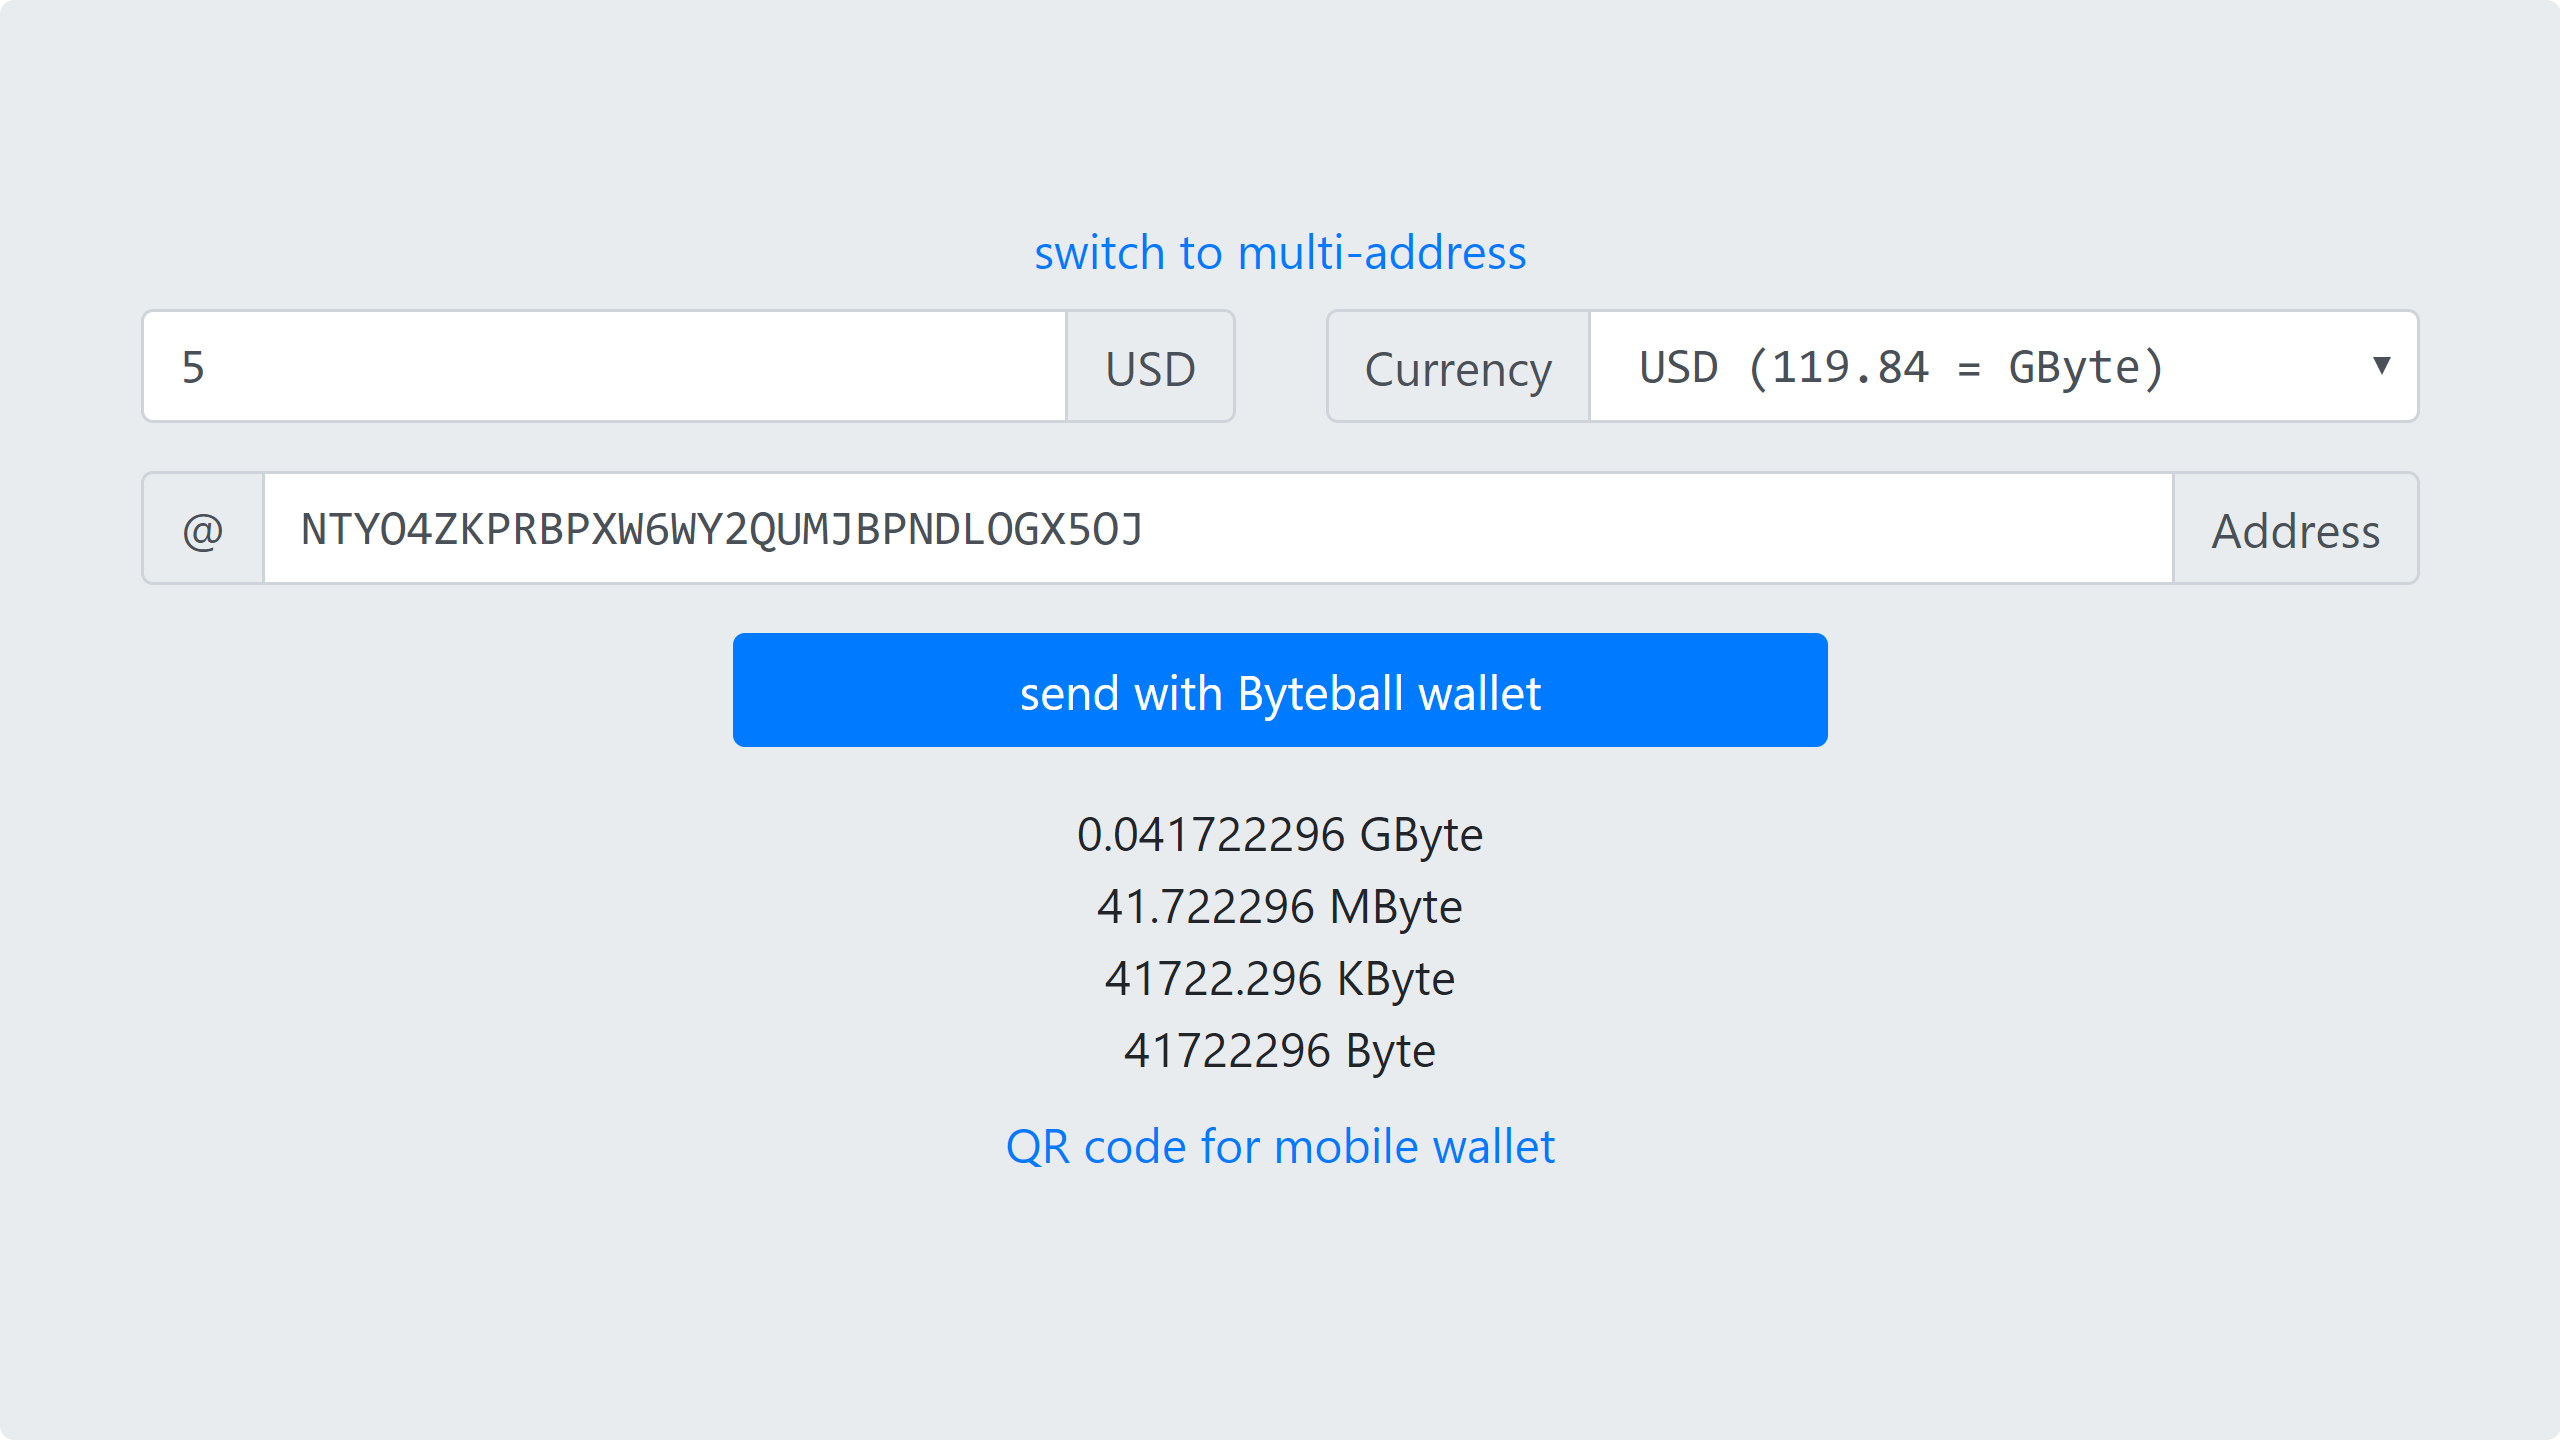
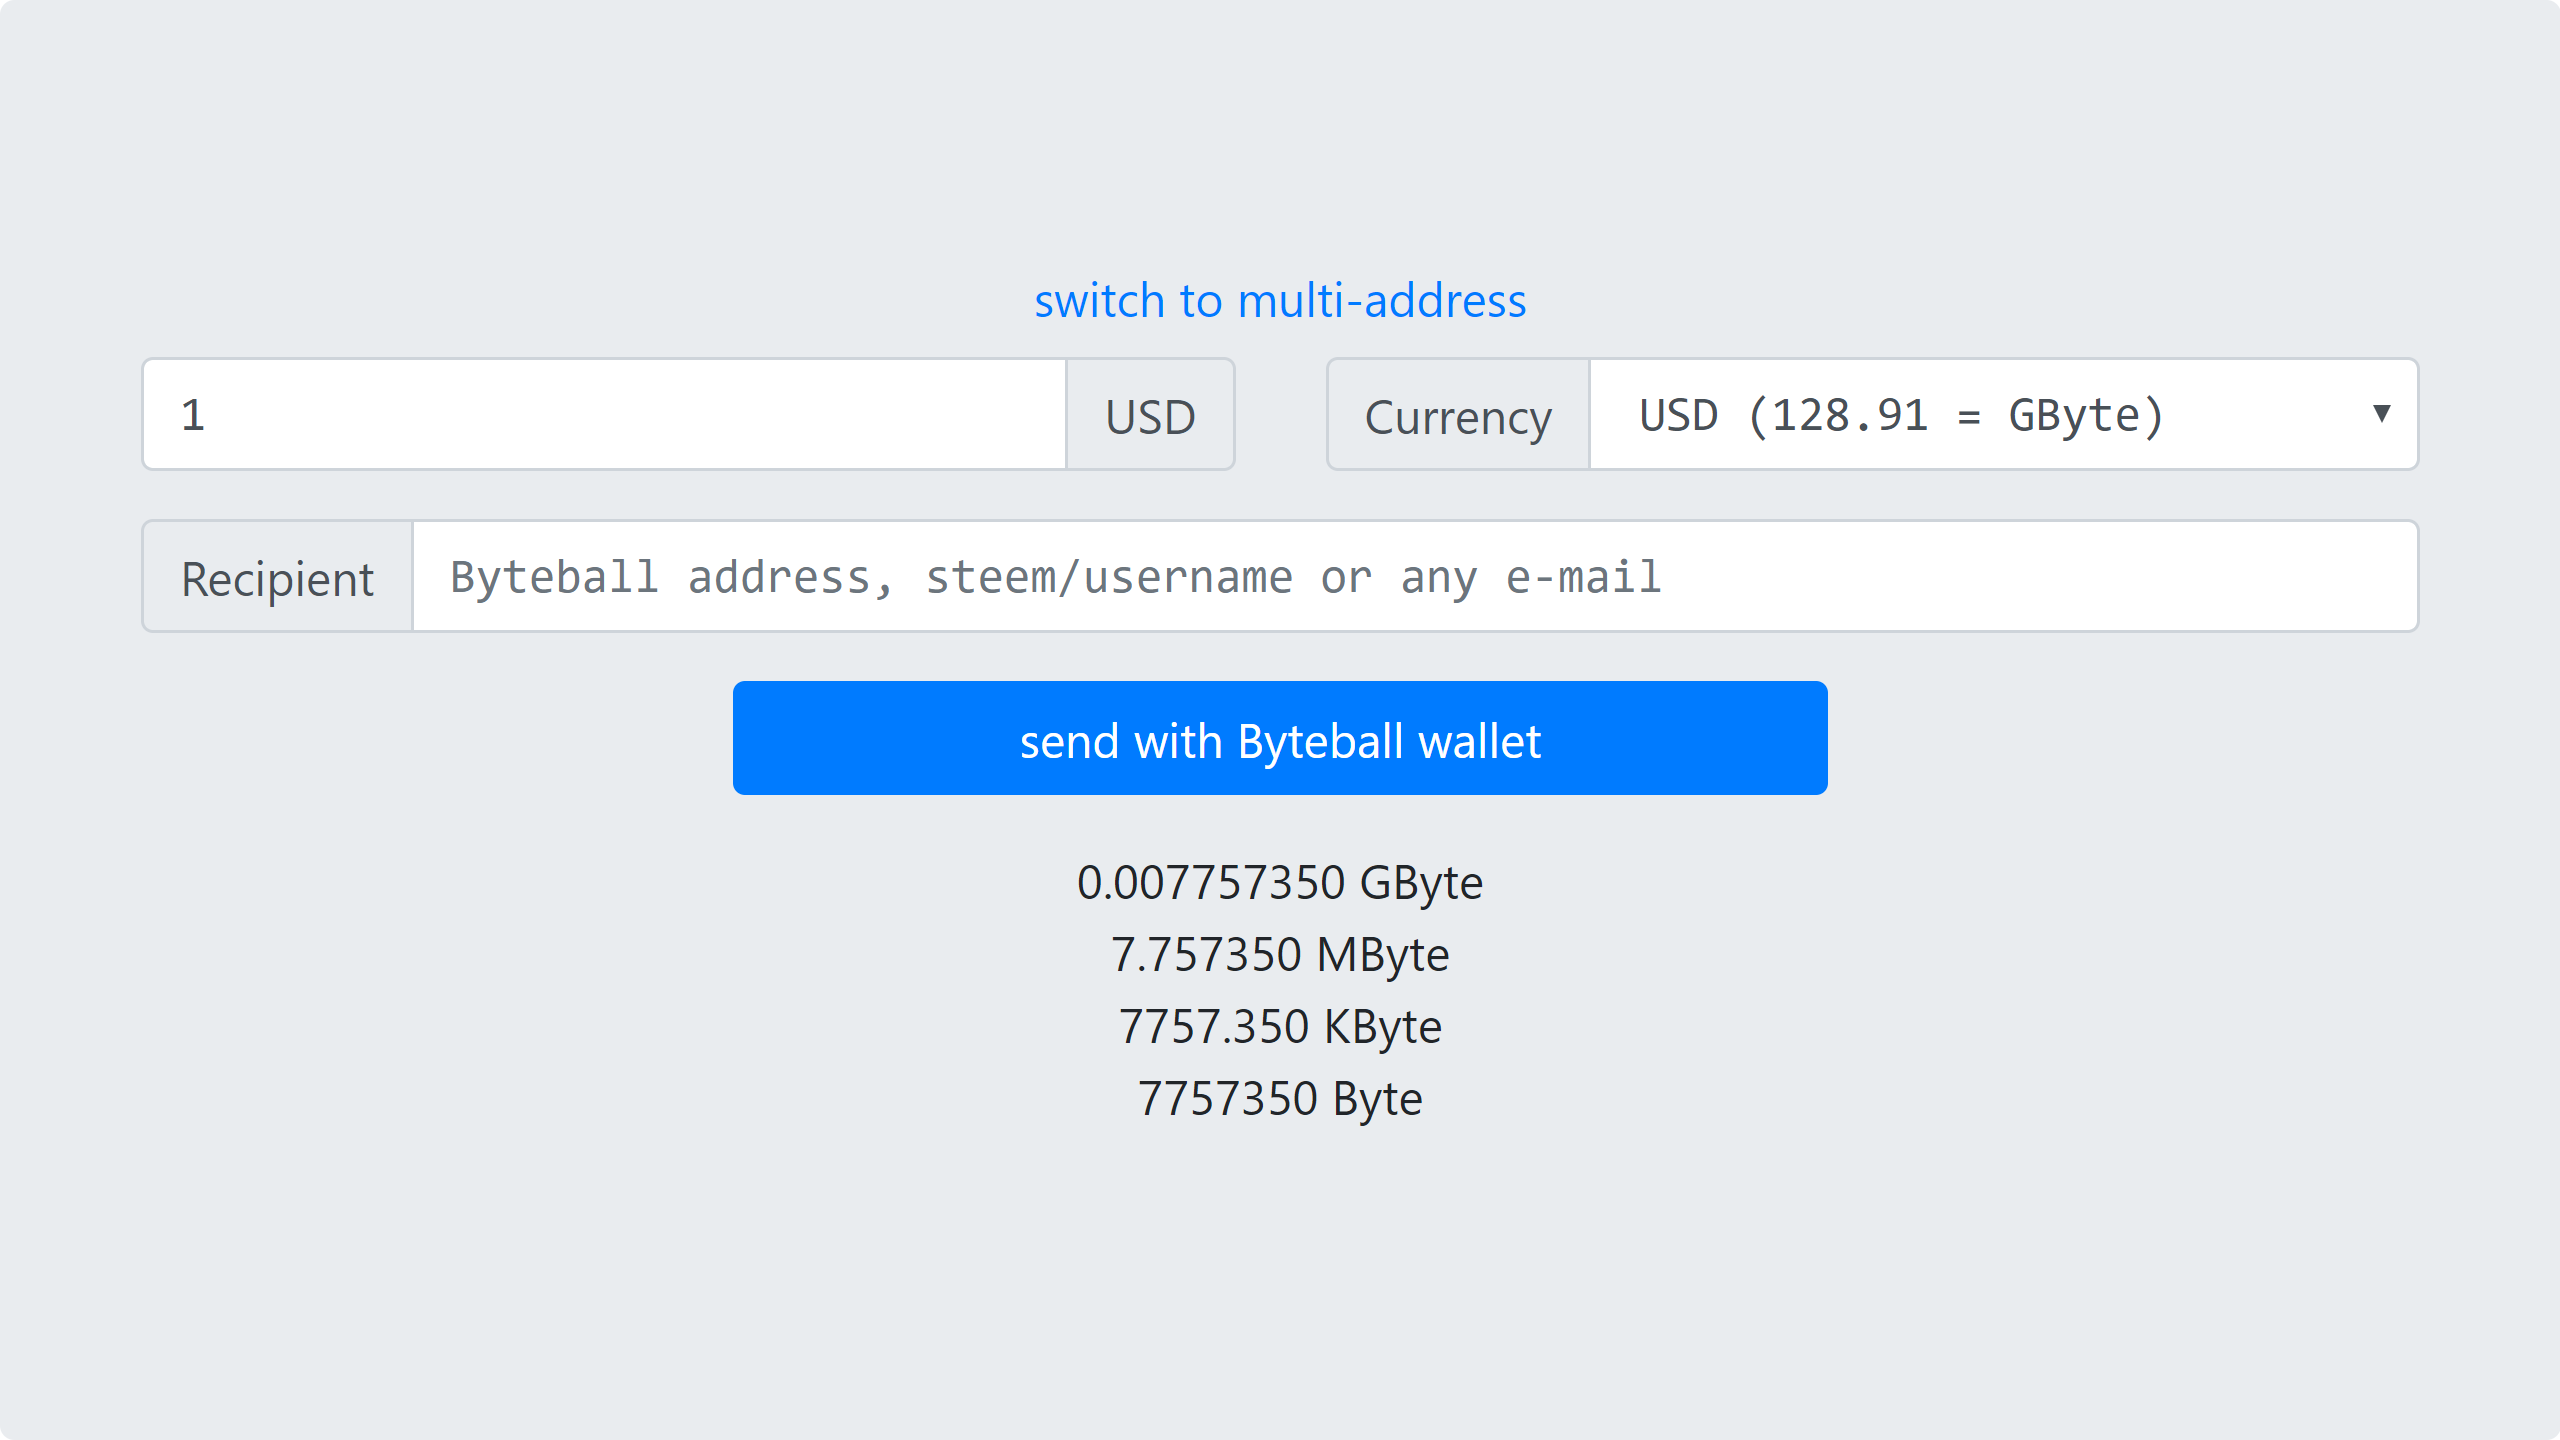
steem/username

Changed region(s): [[0.0625, 0.1562, 0.9375, 0.4375], [0.2812, 0.4375, 0.7188, 0.8125]]

diff --git a/multi.html b/multi.html
@@ -9,7 +9,7 @@
 	<meta property="og:type"        content="website" />
 	<meta property="og:title"       content="Currency converter for Byteball" />
 	<meta property="og:description" content="Tool for converting different currencies to Byteball amounts" />
-	<meta property="og:image"       content="https://tarmo888.github.io/bb-convert/bb-convert.png" />
+	<meta property="og:image"       content="https://tarmo888.github.io/bb-convert/bb-convert-multi.png" />
 	<link rel="stylesheet" href="https://cdnjs.cloudflare.com/ajax/libs/twitter-bootstrap/4.1.1/css/bootstrap.min.css" integrity="sha256-Md8eaeo67OiouuXAi8t/Xpd8t2+IaJezATVTWbZqSOw=" crossorigin="anonymous" />
 	<link rel="stylesheet" href="style.css?v5" />
 	<script>
@@ -34,7 +34,7 @@
 				</div>
 				<div class="row justify-content-center">
 					<div class="input-group input-group-md mb-3 col-lg-3 col-md-6">
-						<input class="form-control" type="number" id="amount_to_send" min="0" placeholder="Amount to send" />
+						<input class="form-control" type="number" id="amount_to_send" min="0" placeholder="Total amount to send" />
 						<div class="input-group-append">
 							<label class="input-group-text" id="amount_to_send_label" for="amount_to_send">?</label>
 						</div>
@@ -48,12 +48,12 @@
 				</div>
 				<div class="row justify-content-center">
 					<div class="input-group input-group-md mb-3 col-lg-6 col-md-12">
-						<div class="input-group-prepend d-none d-sm-flex">
-							<label class="input-group-text" for="bb_address">@</label>
+						<div class="input-group-prepend d-none d-sm-flex align-text-top">
+							<label class="input-group-text" for="bb_address"><span class="align-self-start">Recipient</span></label>
 						</div>
 						<textarea class="form-control" id="bb_address" rows="3" placeholder="multiple Byteball addresses (each address on new line)"></textarea>
-						<div class="input-group-append d-none d-sm-flex">
-							<label class="input-group-text" for="bb_address">Addresses</label>
+						<div class="input-group-append d-none d-sm-flex align-text-top">
+							<label class="input-group-text" for="bb_address"><span class="align-self-start">Addresses</span></label>
 						</div>
 					</div>
 				</div>
@@ -111,6 +111,6 @@
 	<script src="https://cdnjs.cloudflare.com/ajax/libs/jquery/3.3.1/jquery.min.js" integrity="sha256-FgpCb/KJQlLNfOu91ta32o/NMZxltwRo8QtmkMRdAu8=" crossorigin="anonymous"></script>
 	<script src="https://cdnjs.cloudflare.com/ajax/libs/twitter-bootstrap/4.1.1/js/bootstrap.min.js" integrity="sha256-xaF9RpdtRxzwYMWg4ldJoyPWqyDPCRD0Cv7YEEe6Ie8=" crossorigin="anonymous"></script>
 	<script src="https://cdnjs.cloudflare.com/ajax/libs/autosize.js/4.0.2/autosize.min.js" integrity="sha256-dW8u4dvEKDThJpWRwLgGugbARnA3O2wqBcVerlg9LMc=" crossorigin="anonymous"></script>
-	<script src="script.js?v8"></script>
+	<script src="script.js?v9"></script>
 </body>
 </html>

diff --git a/index.html b/index.html
@@ -48,13 +48,10 @@
 				</div>
 				<div class="row justify-content-center">
 					<div class="input-group input-group-md mb-3 col-lg-6 col-md-12">
-						<div class="input-group-prepend d-none d-sm-flex">
-							<label class="input-group-text" for="bb_address">@</label>
+						<div class="input-group-prepend d-none d-sm-flex align-text-top">
+							<label class="input-group-text" for="bb_address"><span class="align-self-start">Recipient</span></label>
 						</div>
-						<input class="form-control" type="text" id="bb_address" placeholder="Byteball address or e-mail" />
-						<div class="input-group-append d-none d-sm-flex">
-							<label class="input-group-text" for="bb_address">Address</label>
-						</div>
+						<input class="form-control" type="text" id="bb_address" placeholder="Byteball address, steem/username or any e-mail" />
 					</div>
 				</div>
 				<div class="row justify-content-center">
@@ -115,6 +112,6 @@
 	<script src="https://cdnjs.cloudflare.com/ajax/libs/twitter-bootstrap/4.1.1/js/bootstrap.min.js" integrity="sha256-xaF9RpdtRxzwYMWg4ldJoyPWqyDPCRD0Cv7YEEe6Ie8=" crossorigin="anonymous"></script>
 	<script src="https://cdnjs.cloudflare.com/ajax/libs/jquery.qrcode/1.0/jquery.qrcode.min.js" integrity="sha256-9MzwK2kJKBmsJFdccXoIDDtsbWFh8bjYK/C7UjB1Ay0=" crossorigin="anonymous"></script>
 	<script src="launch_uri/launch_uri.js?v2"></script>
-	<script src="script.js?v8"></script>
+	<script src="script.js?v9"></script>
 </body>
 </html>

diff --git a/script.js b/script.js
@@ -383,17 +383,12 @@ $(document).ready(function() {
 		if (multi) {
 			return str === str.toUpperCase() && str.length === 32;
 		}
-		// v2.3.0 wallet accepts launch URIs with email addresses
-		return (str === str.toUpperCase() && str.length === 32) ||
-			/^(([^<>()\[\]\\.,;:\s@"]+(\.[^<>()\[\]\\.,;:\s@"]+)*)|(".+"))@((\[[0-9]{1,3}\.[0-9]{1,3}\.[0-9]{1,3}\.[0-9]{1,3}\])|(([a-zA-Z\-0-9]+\.)+[a-zA-Z]{2,}))$/.test(str);
-		// address aliases are not supported yet via `byteball:` URI
-		/*
+		// v2.4.1 wallet accepts launch URIs with email, different aliases and phone
 		return (str === str.toUpperCase() && str.length === 32) ||
 			/^(([^<>()\[\]\\.,;:\s@"]+(\.[^<>()\[\]\\.,;:\s@"]+)*)|(".+"))@((\[[0-9]{1,3}\.[0-9]{1,3}\.[0-9]{1,3}\.[0-9]{1,3}\])|(([a-zA-Z\-0-9]+\.)+[a-zA-Z]{2,}))$/.test(str) ||
 			/^reddit\/[a-z0-9\-_]{3,20}$/i.test(str) ||
 			/^steem\/[a-z0-9\-_]{3,20}$/i.test(str) ||
 			/^@([a-z\d\-_])+$/i.test(str) ||
-			/^\+?\d{9,14}$/.test(str);
-		*/
+			/^\+\d{9,14}$/.test(str);
 	}
 });
